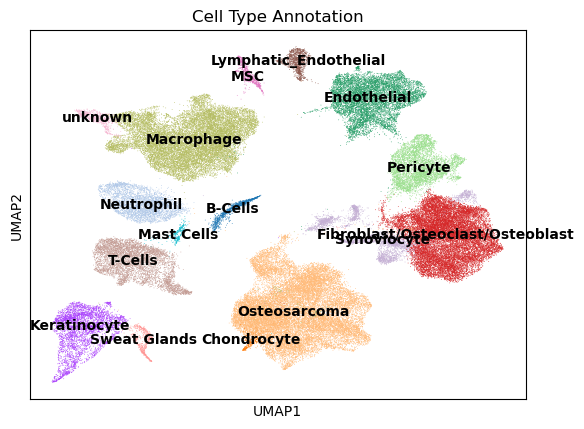
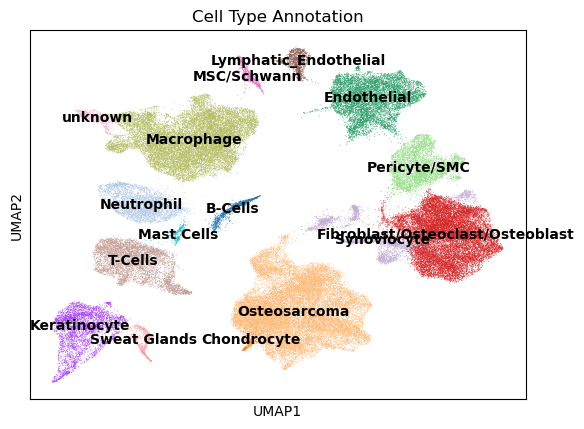
Update README - slight changes in annotations

Changed region(s): [[0.3082, 0.1515, 0.524, 0.2121], [0.6164, 0.3636, 0.8014, 0.4242]]

diff --git a/README.md b/README.md
@@ -272,8 +272,15 @@ marker_genes = {
 
 ## Preliminary annotations 
 
-- Cluster 30 could be Macropahge? 
+- Cluster 36 could be Macropahge? 
 
-![](figures/umap_allAXT_celltype.png?v=1)
+- Fibroblast/Osteoblast/Osteclast markers are higly expressed in the same clusters?
 
-![](figures/umap_allAXT_celltypeON.png?v=1)
+- Pericyte and SMC are highly expressed in the same clusters? 
+
+- MSC and Schwann are highly expressed in the same clusters? 
+
+
+![](figures/umap_allAXT_celltype.png?v=2)
+
+![](figures/umap_allAXT_celltypeON.png?v=2)
